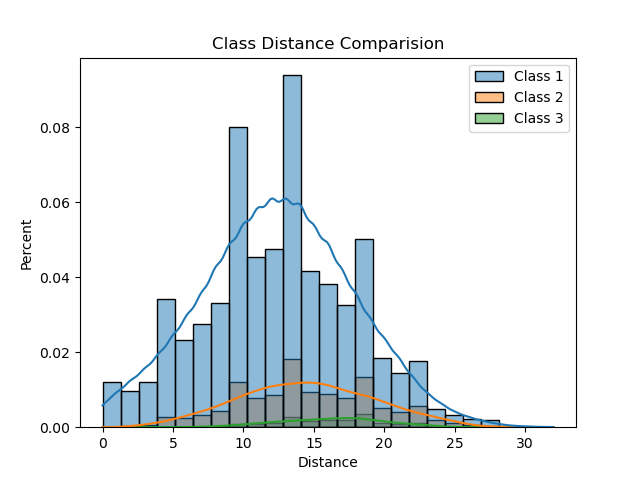
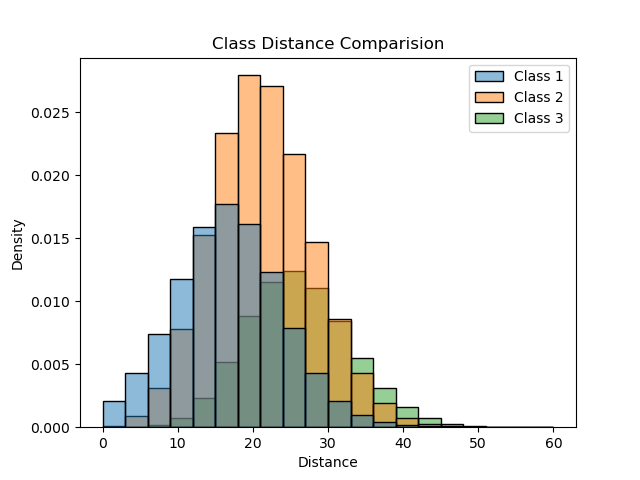
Analyze data

diff --git a/analyze/tree_analysis.py b/analyze/tree_analysis.py
@@ -1,7 +1,13 @@
 import os 
 import sys 
+import numpy as np
+from parse import parse
+import seaborn as sns 
+import pickle
+import matplotlib.pyplot as plt
 
 import networkx as nx
+from utils import read_dist_matrix
 
 directory = sys.argv[1]
 external_data = "lazac-copy-number/data/simulations/"
@@ -10,6 +16,91 @@ CNT_SUFFIX = "-CNT-DIST"
 distances = []
 edgelists = []
 
+def find_root(guess: int, T: nx.DiGraph): 
+    if guess in T.pred: 
+        for p in T.pred[guess]: 
+            return find_root(p, T)
+
+    return guess
+
+def classify_edges(T: nx.DiGraph, is_reachable): 
+    unreachable = 0
+    total = 0 
+    for (u, v) in T.edges: 
+        total += 1
+        unreachable += 1 if not is_reachable[u, v] else 0
+
+    return unreachable > 0, unreachable / total
+    
+def classify_desc(AD: dict, is_reachable): 
+    unreachable = 0
+    total = 0 
+    for ancestor in AD: 
+        for successor in AD[ancestor]: 
+            total += 1
+            unreachable += 1 if not is_reachable[ancestor, successor] else 0
+    
+    return unreachable > 0, unreachable / total
+
+def create_desc_map(root: int, T: nx.DiGraph, S: dict): 
+    S[root] = []
+    for s in T.successors(root): 
+        create_desc_map(s, T, S)
+        S[root] = S[root] + [s] + S[s]
+    
+    pass
+
+def plot(): 
+    ie = None 
+    id = None
+    with open(sys.argv[1], 'rb') as pickle_file:
+        ie = pickle.load(pickle_file)
+    
+    with open(sys.argv[2], 'rb') as pickle_file:
+        id = pickle.load(pickle_file)
+
+    cells = []
+    loci = []
+    ie_stack = []
+    id_stack = []
+
+    for c in sorted(ie.keys()): 
+        for l in ie[c]:
+            # key = format("{} Cells, {} Loci")
+            cells = cells + ([c] * len(ie[c][l]))
+            loci = loci + ([l] * len(ie[c][l]))
+            ie_stack = ie_stack + ie[c][l]
+            id_stack = id_stack + id[c][l]
+
+            print(c)
+
+
+    boxplot = sns.boxplot(x=loci, y=ie_stack, hue=cells, showfliers=False, fill=False, order=["1000", "2000", "3000", "4000"])
+    boxplot.set(
+        xlabel='Loci', 
+        ylabel='Percent of Edges',
+        title='Impossible Edges'
+    )
+    plt.legend().set_title("Num Cells")
+    fig = boxplot.get_figure()
+    fig.savefig("illegal_edges.png") 
+    plt.clf()
+
+    boxplot = sns.boxplot(x=loci, y=id_stack, hue=cells, showfliers=False, fill=False, order=["1000", "2000", "3000", "4000"])
+    boxplot.set(
+        xlabel='Loci', 
+        ylabel='Percent of AD pairs',
+        title='Impossible Ancestor-Descendant Pairs'
+    )
+    plt.legend().set_title("Num Cells")
+    fig = boxplot.get_figure()
+    fig.savefig("illegal_desc.png") 
+    
+
+if directory.endswith('.pkl'): 
+    plot()
+    exit(0)
+
 for filename in os.listdir(directory): 
     if not filename.endswith(CNT_SUFFIX): 
         continue
@@ -17,9 +108,56 @@ for filename in os.listdir(directory):
     distances.append(filename)
     edgelists.append(external_data + filename[:-len(CNT_SUFFIX)] + "_edgelist.csv")
 
+nt_illegal_desc = 0
+nt_illegal_edges = 0
+total = 0
+
+ie = {}
+id = {}
+
 for d, e in zip(distances, edgelists):
-    H = nx.read_edgelist(e, create_using=nx.DiGraph)
+    print(e, d)
+    T = nx.read_edgelist(e, create_using=nx.DiGraph, delimiter=",", nodetype=int, comments='src')
+    D = read_dist_matrix(directory, d)
+    C = np.zeros(D.shape, dtype=np.uint8)
+
+    is_reachable = D != np.inf 
+
+    root = find_root(0, T)
+    desc_map = {}
+    create_desc_map(root, T, desc_map)
+    has_desc, illegal_desc = classify_desc(desc_map, is_reachable)
+    has_edges, illegal_edges = classify_edges(T, is_reachable)
+
+    params = parse('n{num_cells}_l{loci}_s{}-{dist_type}-DIST', d)
+    params = params.named
+    c = params['num_cells']
+    l = params['loci']
+
+    if c not in ie: 
+        ie[c] = {l: []}
+        id[c] = {l: []}
+    elif l not in ie[c]: 
+        ie[c][l] = []
+        id[c][l] = []
 
 
-    # TODO: Remove Break
-    break
+    ie[c][l].append(illegal_edges)
+    id[c][l].append(illegal_desc)
+
+    total += 1
+
+    if has_desc: 
+        nt_illegal_desc += 1
+    if has_edges: 
+        nt_illegal_edges += 1
+
+    
+print('Illegal edge trees: ', nt_illegal_edges, " of ", total)
+print('Illegal desc trees: ', nt_illegal_desc, " of ", total)
+
+with open('ie.pkl', 'wb') as f:
+    pickle.dump(ie, f)
+
+with open('id.pkl', 'wb') as f: 
+    pickle.dump(id, f)

diff --git a/analyze/compare_dist.py b/analyze/compare_dist.py
@@ -23,60 +23,66 @@ for filename in os.listdir(directory):
         file_content = file.read()
 
     matrix = read_dist_matrix(directory, filename)
-    params = parse('n{num_cells}_l{loci}_s{}-{dist_type}-DIST', filename)
+    params = parse('n{num_cells}_l{loci}_s{seed}-{dist_type}-DIST', filename)
     
     params = params.named
-    params['num_cells'] *= 2 
 
-    if params['loci'] not in data: 
-        data[params['loci']] = {params['dist_type']: matrix}
+    key = params['num_cells'] + "-" + params['loci']
+
+    if key not in data: 
+        data[key] = {params['dist_type']: matrix}
     else: 
-        data[params['loci']][params['dist_type']] = matrix
+        data[key][params['dist_type']] = matrix
 
-errs = {}
+errs = np.array([], dtype=np.float64) # {}
+key_m = []
 
-for locus in data: 
-    keys = data[locus].keys()
-    for i in keys:
-        for j in keys: 
-            if i > j: 
-                key = i + "-" + j
+for cells_loci in data: 
+    keys = data[cells_loci].keys()
+    if 'CN3' not in data[cells_loci]: 
+        continue
+
+    for di in keys:
+        for dj in keys: 
+            if di <= dj: 
+                continue 
+
+            key = di + "-" + dj
                 
-                diff = np.absolute(data[locus][i] - data[locus][j])
-                sum = data[locus][i] + data[locus][j]
-                sum[sum == 0.0] = 1
+            diff = np.absolute(data[cells_loci][di] - data[cells_loci][dj])
+            sum = data[cells_loci][di] + data[cells_loci][dj]
+            sum[sum == 0.0] = 1
                 
-                mask = np.where(sum != np.inf)
-                
-                err = diff[mask] / sum[mask]
+            mask = np.where(sum != np.inf)
+            err = diff[mask] / sum[mask]
 
-                if key not in errs: 
-                    errs[key] = np.array(err, dtype=np.float64)
-                else: 
-                    errs[key] = np.hstack((errs[key], err))
-                # errs = np.hstack((errs, err))
-                # key_m = key_m + ([key] * len(err))
-
-
-data = []
-labels = []
-for key in errs: 
-    data.append(errs[key])
-    labels.append(key)
-
-plt.hist(data, label=labels, density=True)
-plt.legend(loc='upper right')
-plt.ylabel("Density")
-plt.xlabel("Relative Error")
-plt.savefig("dist_fig.png")
+                # if key not in errs: 
+                #     errs[key] = np.array(err, dtype=np.float64)
+                # else: 
+                #     errs[key] = np.hstack((errs[key], err))
+            errs = np.hstack((errs, err))
+            key_m = key_m + ([key] * len(err))
 
 
-# boxplot = sns.histplot(x=errs, hue=key_m, stat="percent")
-# boxplot.set(
-#     xlabel='Error', 
-#     ylabel='Percent',
-#     title='Distance Algorithm Comparision'
-# )
-# boxplot.get_legend().set_title("Methods")
-# fig = boxplot.get_figure()
-# fig.savefig("dist_fig.png") 
+# data = []
+# labels = []
+# for key in errs: 
+#     data.append(errs[key])
+#     labels.append(key)
+
+# plt.hist(data, label=labels, density=True)
+# plt.legend(loc='upper right')
+# plt.ylabel("Density")
+# plt.xlabel("Relative Error")
+# plt.savefig("dist_fig.png")
+
+print(np.unique(key_m))
+boxplot = sns.histplot(x=errs, hue=key_m, stat="density", element="step", bins=30)
+boxplot.set(
+    xlabel='Error', 
+    ylabel='Density',
+    title='Distance Algorithm Comparision'
+)
+# boxplot.legend().set_title("Methods")
+fig = boxplot.get_figure()
+fig.savefig("dist_fig.png") 

diff --git a/analyze/class_analysis.py b/analyze/class_analysis.py
@@ -4,36 +4,60 @@ import os
 import seaborn as sns 
 import numpy as np
 from parse import parse
+from tqdm import tqdm
+import pickle
 
 from utils import read_dist_matrix
 
 directory = sys.argv[1]
 
+def plot_data(dists, labels): 
+    print("Plotting...")
+    histplot = sns.histplot(x=dists, hue=labels, stat='density', bins=20)
+    histplot.set(
+        xlabel='Distance', 
+        ylabel='Density',
+        title='Class Distance Comparision'
+    )
+    print("Plotted")
+    fig = histplot.get_figure()
+    fig.savefig("classes.png") 
+
+if directory.endswith(".pkl"): 
+    data = None
+    with open(directory, 'rb') as pickle_file:
+        data = pickle.load(pickle_file)
+    plot_data(data['distance'], data['labels'])
+    exit(0) 
+
 matching_files = {} # mf[loci][dist_type] = filename
 for filename in os.listdir(directory): 
     if not filename.endswith("DIST"): 
         continue
+    if filename.rfind("CN3") != -1: 
+        continue
 
-    params = parse('n{num_cells}_l{loci}_s{}-{dist_type}-DIST', filename)
+    params = parse('n{num_cells}_l{loci}_s{seed}-{dist_type}-DIST', filename)
     params = params.named
-    if params['loci'] not in matching_files: 
-        matching_files[params['loci']] = {params['dist_type']: filename}
+    k = params['loci'] + "-" + params['seed'] + "-" + params['num_cells']
+    if k not in matching_files: 
+        matching_files[k] = {params['dist_type']: filename}
     else: 
-        matching_files[params['loci']][params['dist_type']] = filename
+        matching_files[k][params['dist_type']] = filename
 
 C1 = {}
 C2 = {}
 C3 = {}
 
-for l in matching_files: 
+for l in tqdm(matching_files): 
     if "CNT" not in matching_files[l]: 
         continue 
     
-    cnt_dist = read_dist_matrix(directory, matching_files[l]["CNT"])
-    is_reachable = cnt_dist != np.inf 
+    mat = read_dist_matrix(directory, matching_files[l]["CNT"])
+    is_reachable = mat != np.inf 
     
     C1_mask = np.logical_and(is_reachable, is_reachable.T)
-    C2_mask = np.logical_and(is_reachable, ~is_reachable.T)
+    C2_mask = np.logical_xor(is_reachable, is_reachable.T)
     C3_mask = np.logical_and(~is_reachable, ~is_reachable.T)
 
     for dt in matching_files[l]: 
@@ -43,6 +67,7 @@ for l in matching_files:
             C3[dt] = np.array([], dtype=np.float64)
 
         mat = read_dist_matrix(directory, matching_files[l][dt])
+        num_elements = mat.shape[0] * mat.shape[1]
         C1[dt] = np.hstack((C1[dt], mat[C1_mask]))
         C2[dt] = np.hstack((C2[dt], mat[C2_mask]))
         C3[dt] = np.hstack((C3[dt], mat[C3_mask]))
@@ -50,11 +75,14 @@ for l in matching_files:
 
 dists = np.hstack((C1['ZCNT'], C2['ZCNT'], C3['ZCNT'])).astype(np.int64)
 labels = (["Class 1"] * len(C1['ZCNT'])) + (["Class 2"] * len(C2['ZCNT'])) + (["Class 3"] * len(C3['ZCNT']))
-histplot = sns.histplot(x=dists, hue=labels, stat='density', kde=True, bins=25)
-histplot.set(
-    xlabel='Distance', 
-    ylabel='Percent',
-    title='Class Distance Comparision'
-)
-fig = histplot.get_figure()
-fig.savefig("classes.png") 
+data = {
+    "distance": dists, 
+    "labels": labels
+}
+with open('saved_class_analysis.pkl', 'wb') as f:
+    pickle.dump(data, f)
+
+plot_data(dists, labels)
+print("Class 1", len(C1['ZCNT']))
+print("Class 2", len(C2['ZCNT']))
+print("Class 3", len(C3['ZCNT']))

diff --git a/analyze/compare_times.py b/analyze/compare_times.py
@@ -30,7 +30,7 @@ for filename in os.listdir(directory):
     loci = loci + ([params['loci']] * len(t))
     times = np.hstack((times, t))
     
-boxplot = sns.boxplot(x=loci, y=times, hue=dist, showfliers=False, fill=False, order=["1000", "2000", "3000", "4000"])
+boxplot = sns.boxplot(x=loci, y=times, hue=dist, showfliers=False, fill=False, order=["1000", "2000", "3000", "4000"], hue_order=['ZCNT', 'CNT', 'CN3'])
 boxplot.set(
     xlabel='Loci', 
     ylabel='Log Runtime (ms)',
